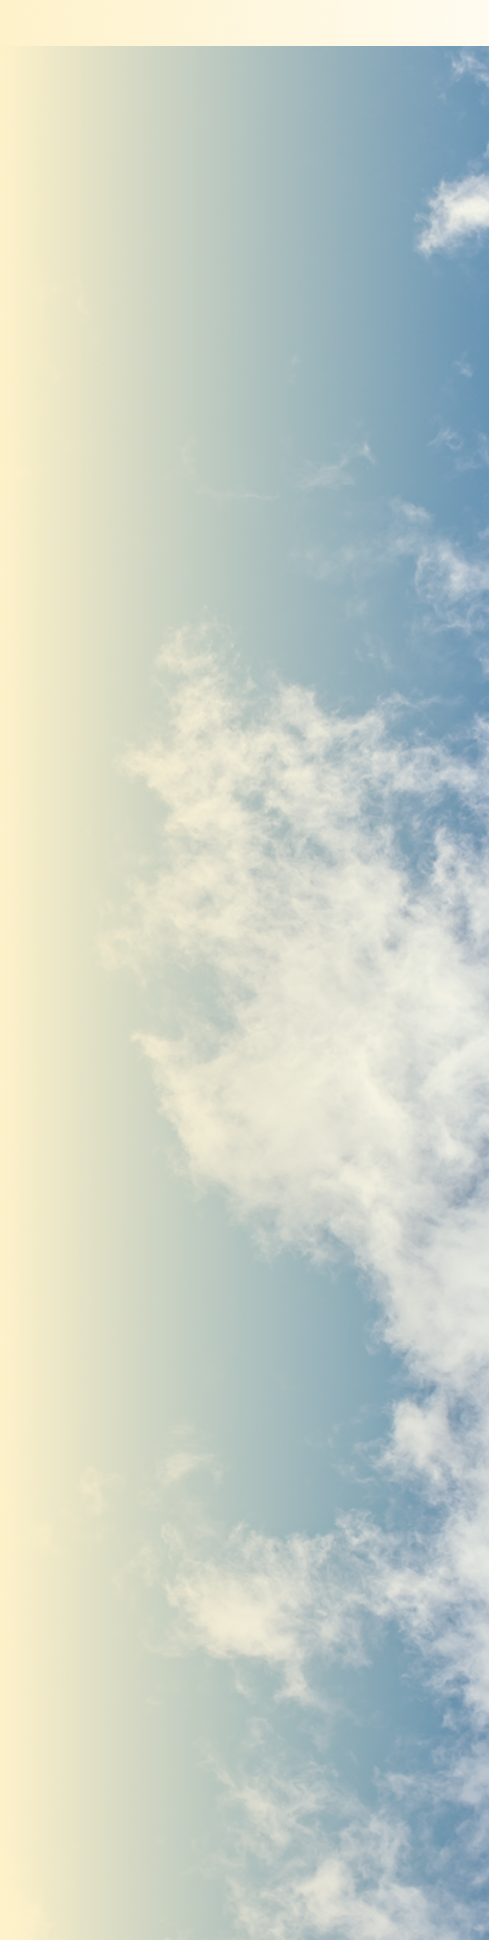
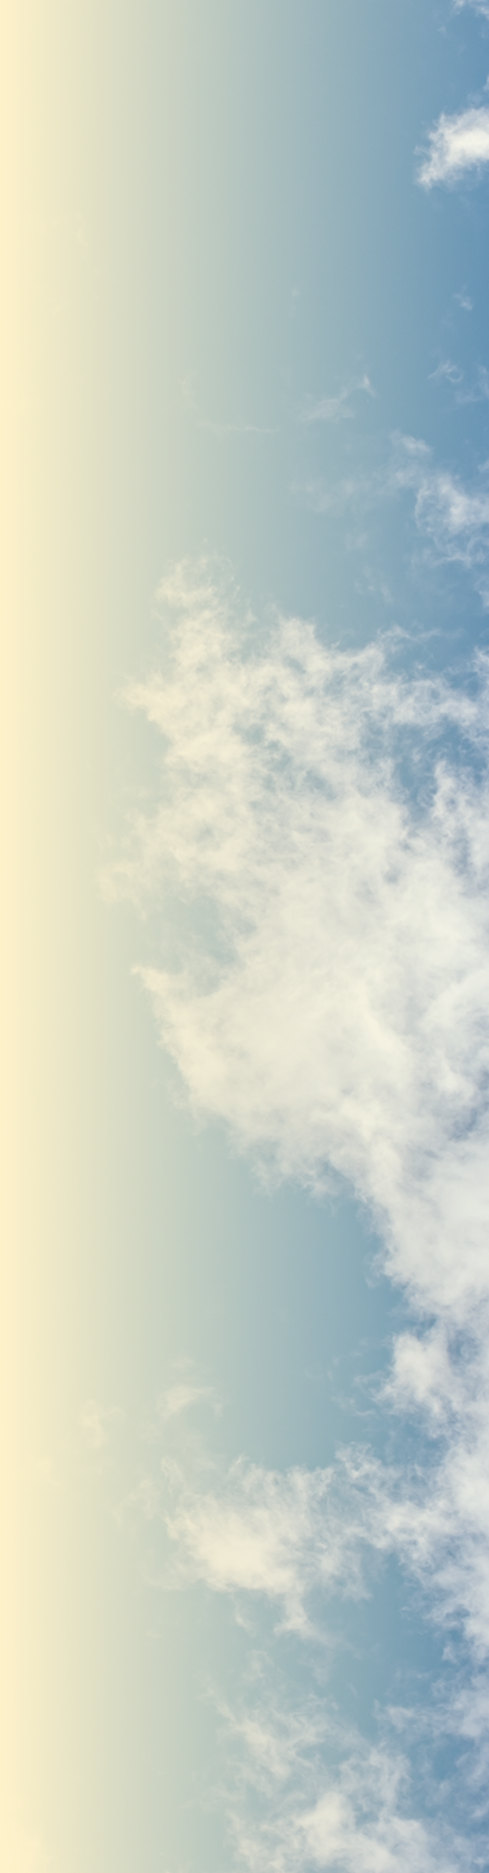
meteo

diff --git a/front-page.php b/front-page.php
@@ -11,7 +11,7 @@
     $meteo = function_exists('efc_get_meteo') ? efc_get_meteo() : null;
 
     if ($meteo_title || $meteo_text || $meteo_announcement) : ?>
-        <section>
+        <section class="section-meteo" style="background: url('<?php echo esc_url(get_template_directory_uri() . '/images/fond-meteo.png'); ?>') right top / auto 100% no-repeat;">
             <div class="grid grid-cols-1 lg:grid-cols-[28rem_1fr] gap-16 items-start px-4 py-12">
 
                 <!-- titre et texte -->
@@ -34,7 +34,7 @@
                         <img src="<?php echo esc_url(get_template_directory_uri() . '/assets/objets/soleil.png'); ?>" alt="" class="pointer-events-none absolute -top-16 right-28 w-40 hidden md:block">
                         <img src="<?php echo esc_url(get_template_directory_uri() . '/assets/objets/nuage.png'); ?>" alt="" class="pointer-events-none absolute -top-14 -right-12 w-64 hidden md:block">
 
-                        <h2 class="text- text-5xl uppercase mb-3 text-orange-light">Météo</h2>
+                        <h2 class="text-5xl uppercase mb-3 text-orange-light">Météo</h2>
 
                         <div class="flex flex-col gap-6">
 
@@ -164,20 +164,31 @@
 
             </div>
             <!-- état des routes -->
-            <div class="grid grid-cols-1 lg:grid-cols-2 gap-16 items-start px-4 py-12">
+            <div class="grid grid-cols-1 lg:grid-cols-2 gap-16 items-stretch px-4 py-12 -mt-40 mb-20 lg:h-[600px] lg:box-content">
                 <!-- annonce -->
-                <div class="relative min-w-0 bg-white rounded-[3rem] p-6 lg:p-8">
-                    <?php if ($meteo_date) : ?>
-                        <p><?php echo esc_html($meteo_date); ?></p>
-                    <?php endif; ?>
-                    <?php if ($meteo_announcement) : ?>
-                        <p><?php echo nl2br(esc_html($meteo_announcement)); ?></p>
-                    <?php endif; ?>
+                <div class="relative min-w-0 bg-white rounded-[3rem] p-6 lg:p-8 overflow-hidden">
+                    <h2 class="text-5xl uppercase mb-3 text-orange-light w-70 relative z-10 mt-3">État des routes</h2>
+                    <h3 class="text-3xl uppercase mb-3 text-black relative z-10">Avertissements en vigueur</h3>
+                    <img src="<?php echo esc_url(get_template_directory_uri() . '/assets/objets/highway.png'); ?>" alt="#" class="z-5 pointer-events-none w-150 absolute top-15 -right-10 ">
+                    <div class="relative bg-yellow rounded-[2rem] p-6 flex flex-col gap-4 z-20 mt-15 h-[300px]">
+
+                        <img src="<?php echo esc_url(get_template_directory_uri() . '/assets/objets/alert.png'); ?>" alt="#" class="w-35 absolute -top-15 left-0 pointer-none">
+
+                        <?php if ($meteo_date) : ?>
+                            <p class="font-bold archivo text-white text-right  text-2xl uppercase"><?php echo esc_html($meteo_date); ?></p>
+                        <?php endif; ?>
+
+                        <?php if ($meteo_announcement) : ?>
+                            <p class="text-black text-[1.25rem]"><?php echo nl2br(esc_html($meteo_announcement)); ?></p>
+                        <?php endif; ?>
+
+                    </div>
+
                 </div>
-                <!-- état des routes --> 
-                <div>
-                    <div class="carte-routes">
-                        <iframe src="https://www.google.com/maps/embed?pb=!1m14!1m12!1m3!1d49965.67457830342!2d-67.56261623299348!3d48.83919038373369!2m3!1f0!2f0!3f0!3m2!1i1024!2i768!4f13.1!5e0!3m2!1sfr!2sca!4v1795459922725!5m2!1sfr!2sca" width="100%" height="450" style="border:0;" allowfullscreen="" loading="lazy" referrerpolicy="strict-origin-when-cross-origin"></iframe>
+                <!-- état des routes -->
+                <div class="h-[400px] lg:h-full">
+                    <div class="carte-routes h-full">
+                        <iframe src="https://www.google.com/maps/embed?pb=!1m14!1m12!1m3!1d49965.67457830342!2d-67.56261623299348!3d48.83919038373369!2m3!1f0!2f0!3f0!3m2!1i1024!2i768!4f13.1!5e0!3m2!1sfr!2sca!4v1795459922725!5m2!1sfr!2sca" width="100%" style="border:0; display:block; height:100%;" allowfullscreen="" loading="lazy" referrerpolicy="strict-origin-when-cross-origin"></iframe>
                         <!-- bouton Québec 511 par-dessus le bouton « Ouvrir dans Maps » de Google -->
                         <a class="btn-quebec511" href="https://www.quebec511.info/fr/Carte/Default.aspx" target="_blank" rel="noopener noreferrer">
                             Ouvrir Québec 511
